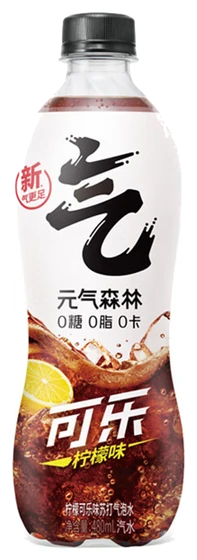
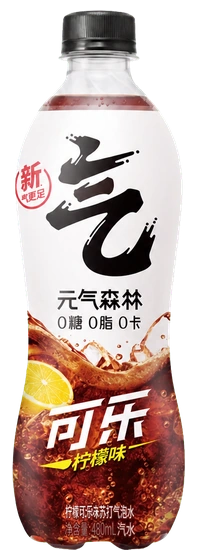
Align vending products to shelf baselines

diff --git a/index.html b/index.html
@@ -5842,16 +5842,16 @@
           transform: none;
         }
 
-        .is-vending-ready [data-product-index="01"] { --vending-product-x: -2px; --vending-product-y: 0px; --vending-product-height: 160px; }
-        .is-vending-ready [data-product-index="02"] { --vending-product-x: 3px; --vending-product-y: -11px; --vending-product-height: 165px; }
-        .is-vending-ready [data-product-index="03"] { --vending-product-x: 7px; --vending-product-y: 5px; --vending-product-height: 170px; }
-        .is-vending-ready [data-product-index="04"] { --vending-product-x: 7px; --vending-product-y: -13px; --vending-product-height: 165px; }
-        .is-vending-ready [data-product-index="05"] { --vending-product-x: 4px; --vending-product-y: -14px; --vending-product-height: 143px; }
-        .is-vending-ready [data-product-index="06"] { --vending-product-x: 5px; --vending-product-y: -14px; --vending-product-height: 176px; }
-        .is-vending-ready [data-product-index="07"] { --vending-product-x: 3px; --vending-product-y: -20px; --vending-product-height: 164px; }
-        .is-vending-ready [data-product-index="08"] { --vending-product-x: 8px; --vending-product-y: -20px; --vending-product-height: 130px; }
-        .is-vending-ready [data-product-index="09"] { --vending-product-x: 7px; --vending-product-y: -19px; --vending-product-height: 165px; }
-        .is-vending-ready [data-product-index="10"] { --vending-product-x: 8px; --vending-product-y: -22px; --vending-product-height: 150px; }
+        .is-vending-ready [data-product-index="01"] { --vending-product-x: -2px; --vending-product-y: 3.1px; --vending-product-height: 160px; }
+        .is-vending-ready [data-product-index="02"] { --vending-product-x: 3px; --vending-product-y: 3.2px; --vending-product-height: 165px; }
+        .is-vending-ready [data-product-index="03"] { --vending-product-x: 7px; --vending-product-y: 3px; --vending-product-height: 170px; }
+        .is-vending-ready [data-product-index="04"] { --vending-product-x: 7px; --vending-product-y: 3.2px; --vending-product-height: 165px; }
+        .is-vending-ready [data-product-index="05"] { --vending-product-x: 4px; --vending-product-y: 2.3px; --vending-product-height: 143px; }
+        .is-vending-ready [data-product-index="06"] { --vending-product-x: 5px; --vending-product-y: 5px; --vending-product-height: 176px; }
+        .is-vending-ready [data-product-index="07"] { --vending-product-x: 3px; --vending-product-y: 2.6px; --vending-product-height: 164px; }
+        .is-vending-ready [data-product-index="08"] { --vending-product-x: 8px; --vending-product-y: 1.4px; --vending-product-height: 130px; }
+        .is-vending-ready [data-product-index="09"] { --vending-product-x: 7px; --vending-product-y: 3px; --vending-product-height: 165px; }
+        .is-vending-ready [data-product-index="10"] { --vending-product-x: 8px; --vending-product-y: .8px; --vending-product-height: 150px; }
 
         .is-vending-ready .d-vending-shelf .d-acrylic-plinth,
         .is-vending-ready .d-vending-shelf .d-product-label {
